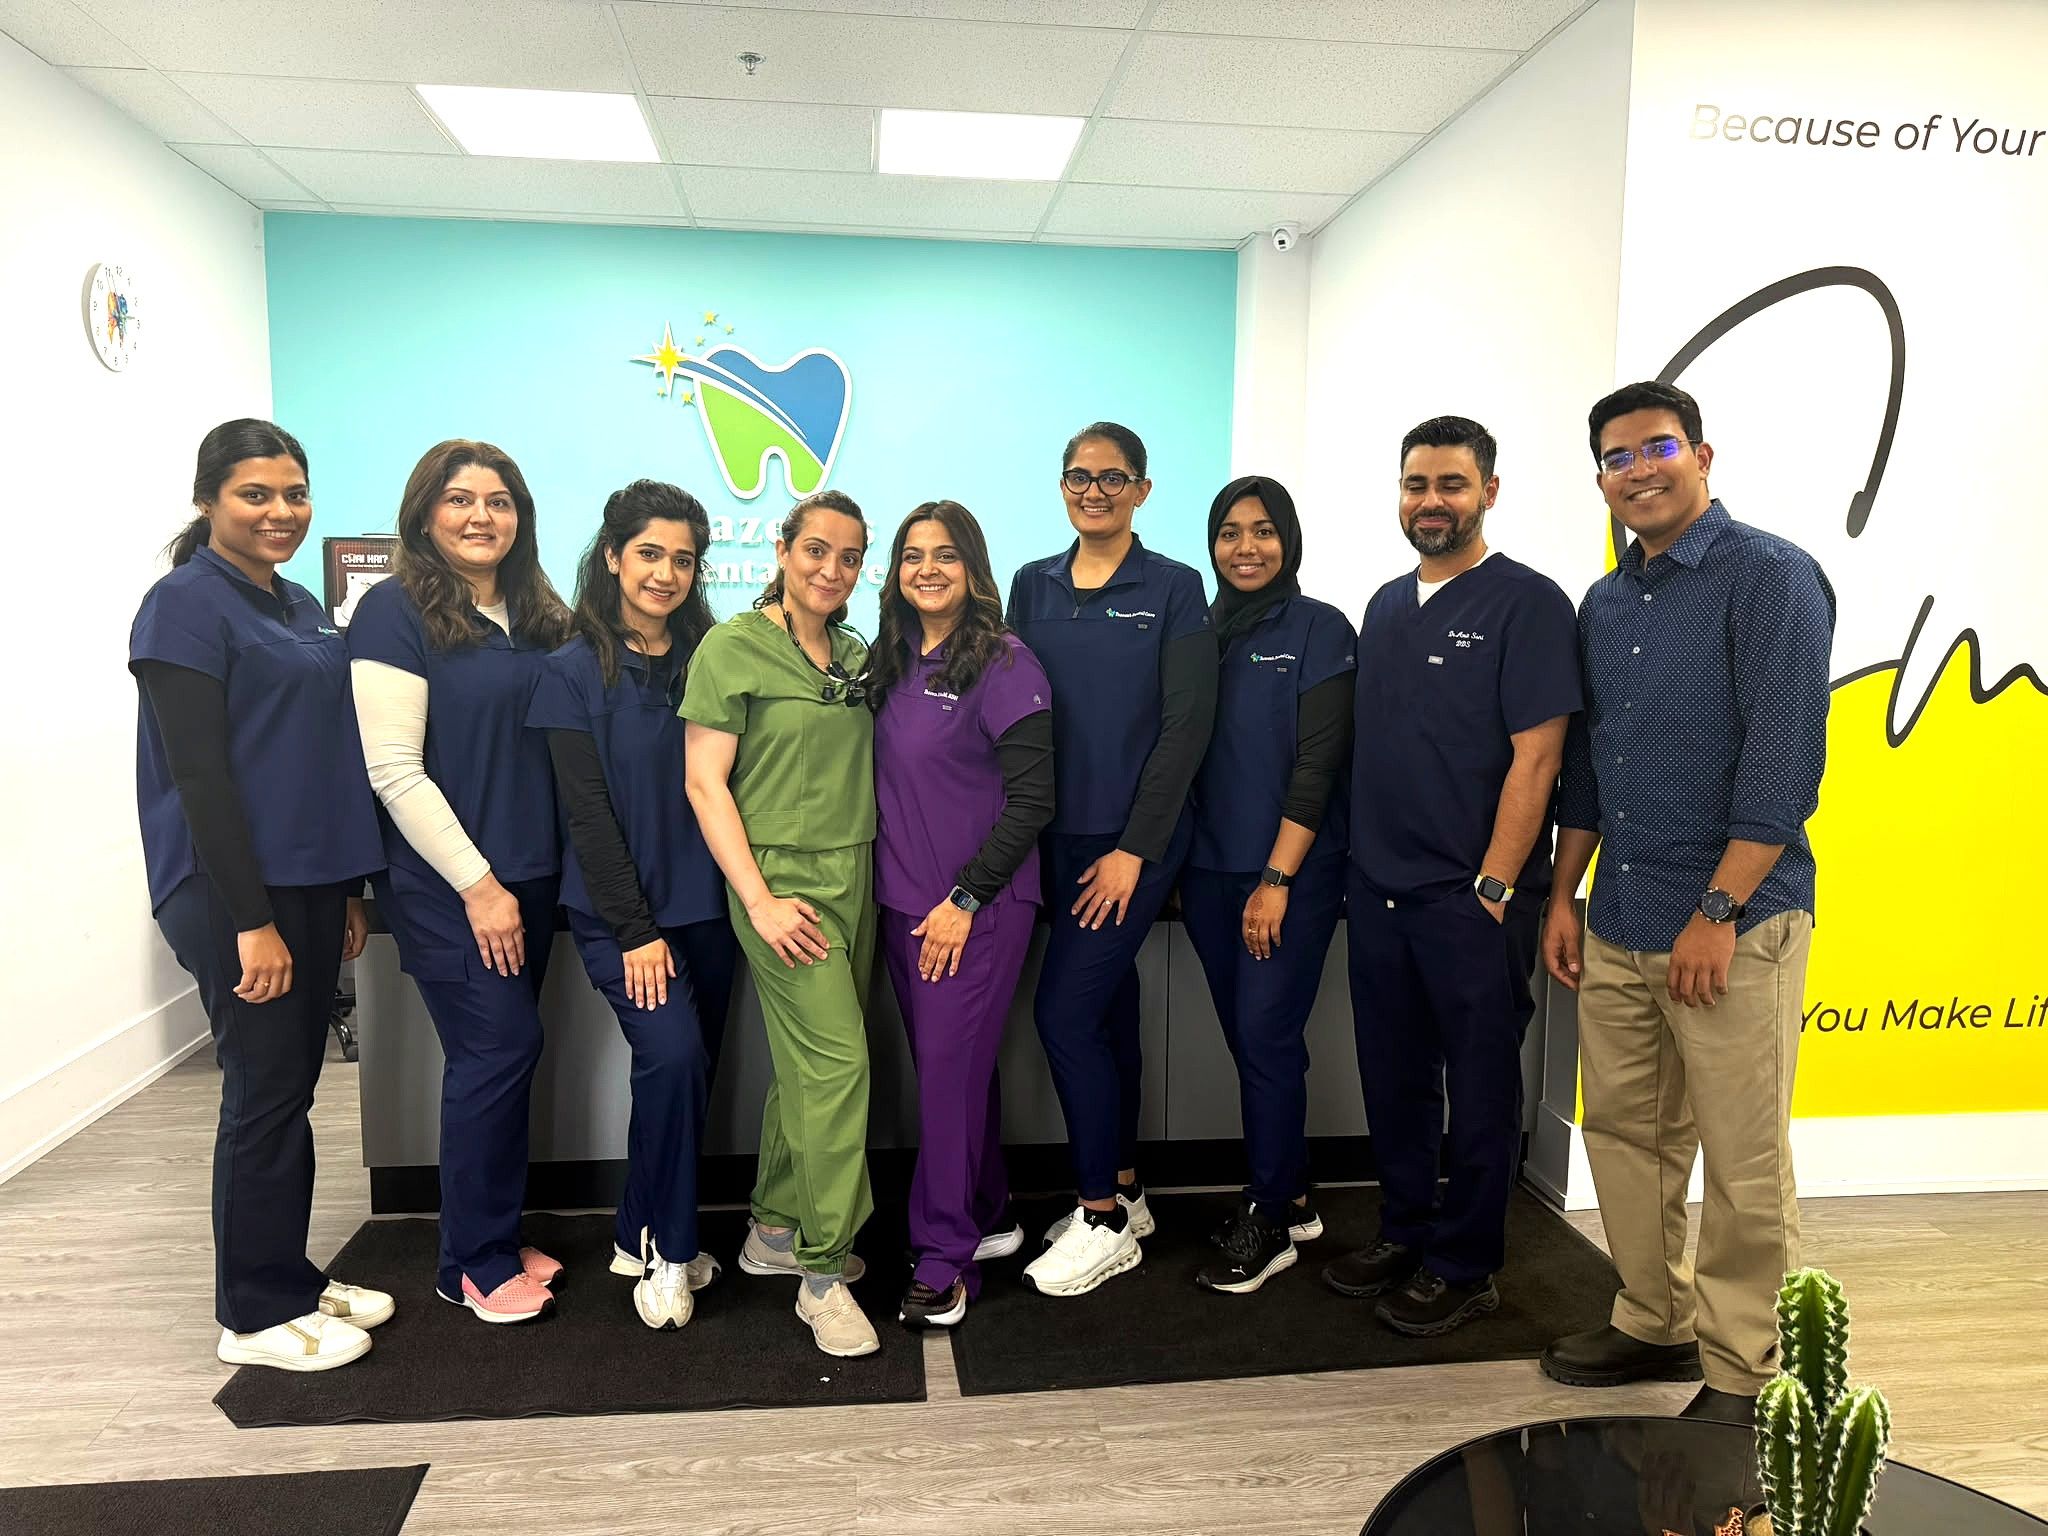
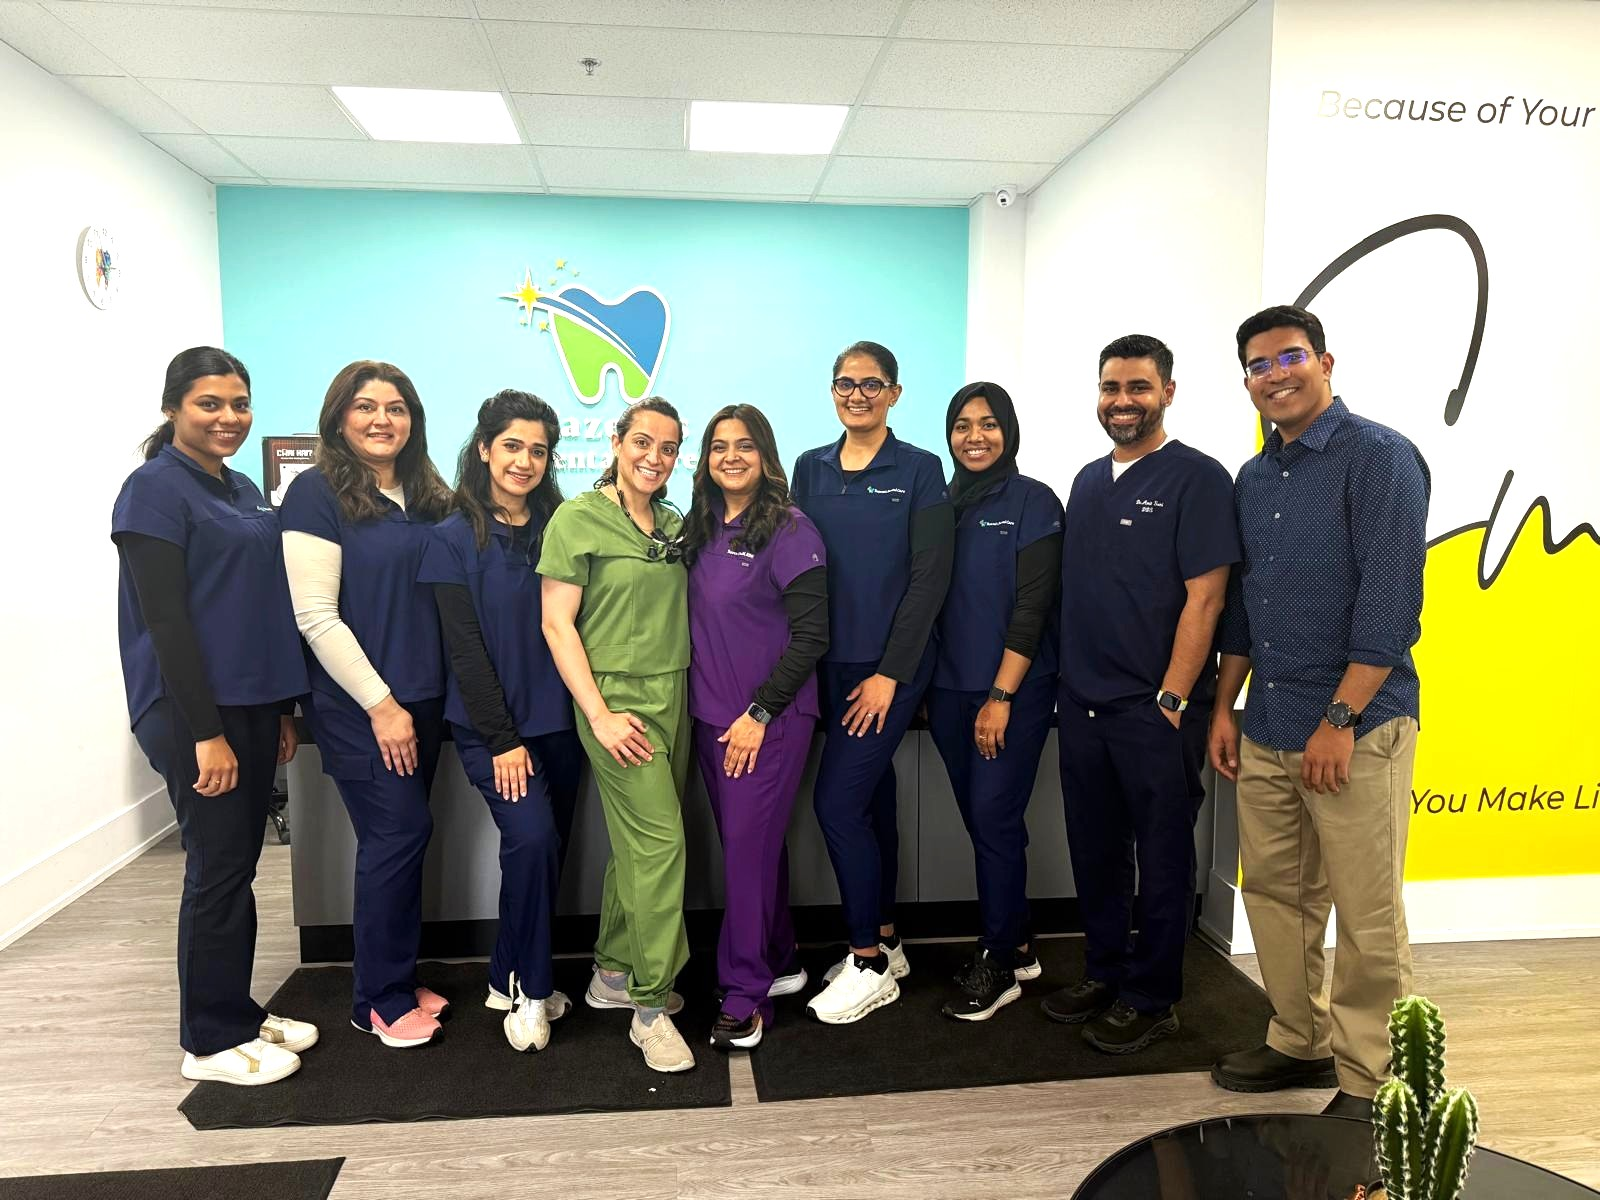
done

diff --git a/src/pages/Home.tsx b/src/pages/Home.tsx
@@ -210,7 +210,7 @@ function ServicesOverview() {
 
   const services = [
     { title: 'Guided Biofilm Therapy', desc: 'Advanced airflow cleaning- painless and fast', image: gbt1, link: '/gbt', badge: 'Signature Service' },
-    { title: 'Root Canal Treatment', desc: 'Treatment saves an infected or damaged tooth', image:pc1, link: '/services' },
+    { title: 'Root Canal Treatment', desc: 'Treatment saves any infected or damaged tooth', image:pc1, link: '/services' },
     { title: 'Periodontal Care', desc: 'Deep cleaning and gum health management', image: pc2, link:'/services' },
     { title: 'Teeth Whitening', desc: 'Professional whitening for a brighter smile', image: tw1 , link: '/services' },
     { title: "Children's Dental", desc: 'Gentle, kid-friendly preventive care', image: cd1, link: '/services' },
